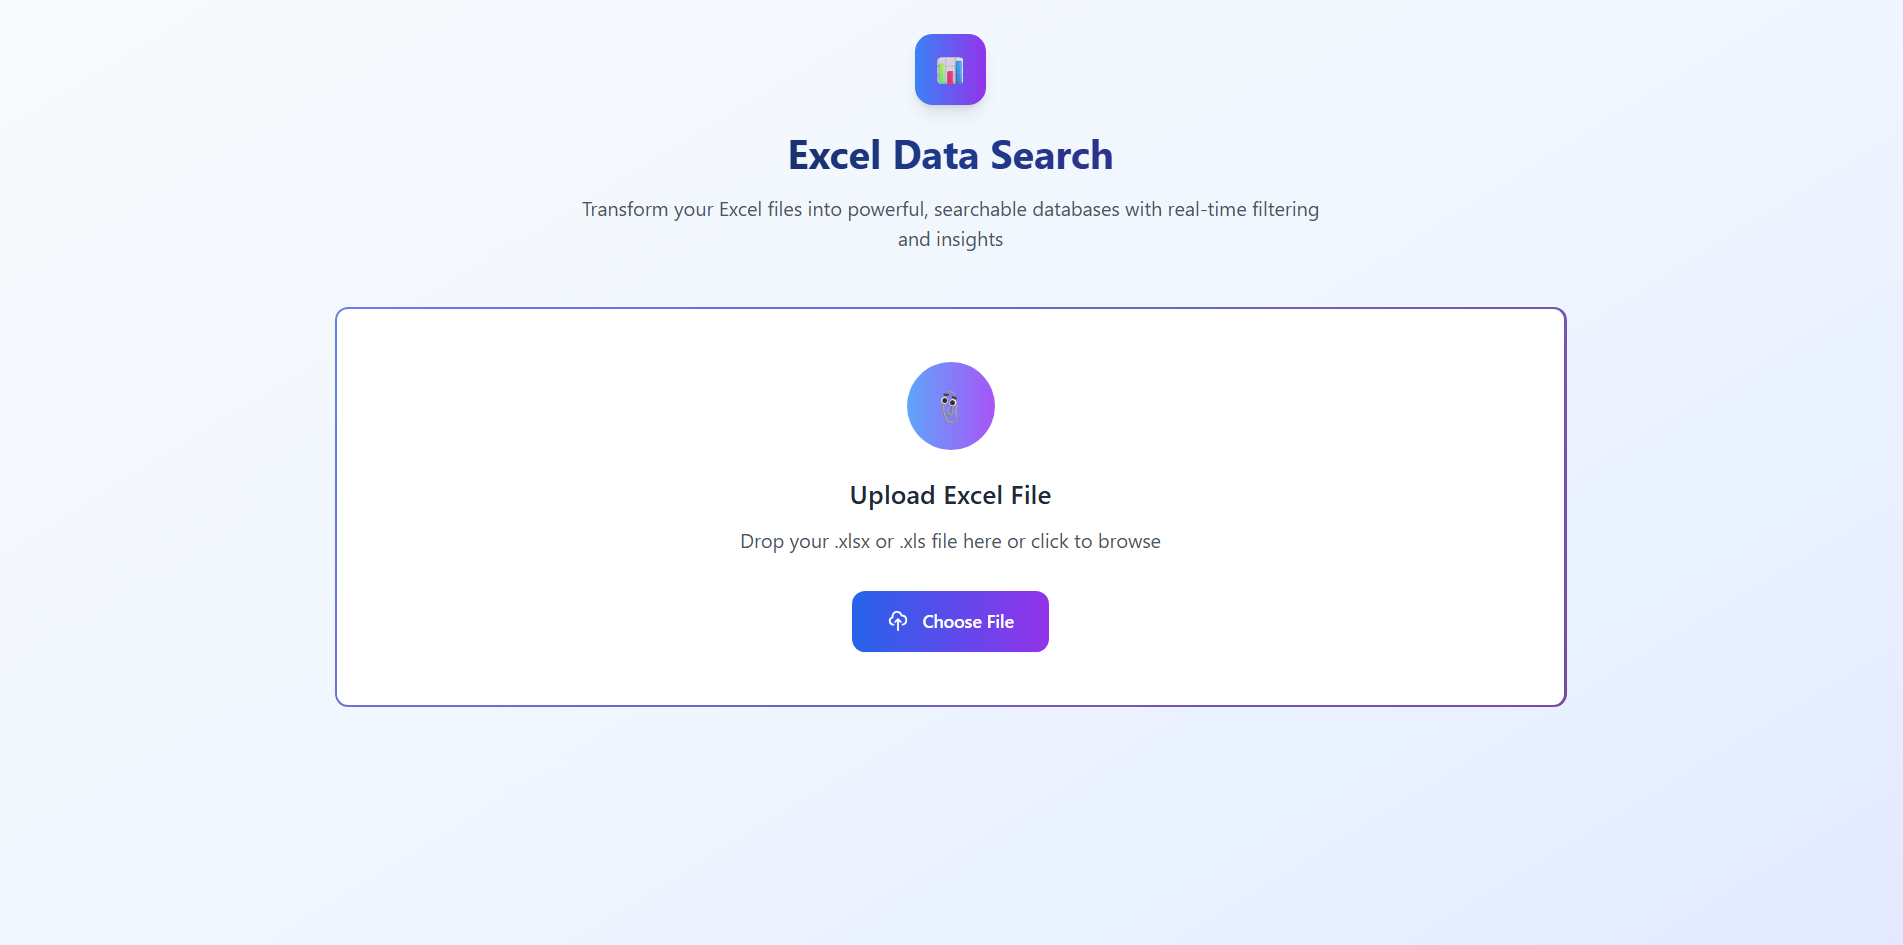
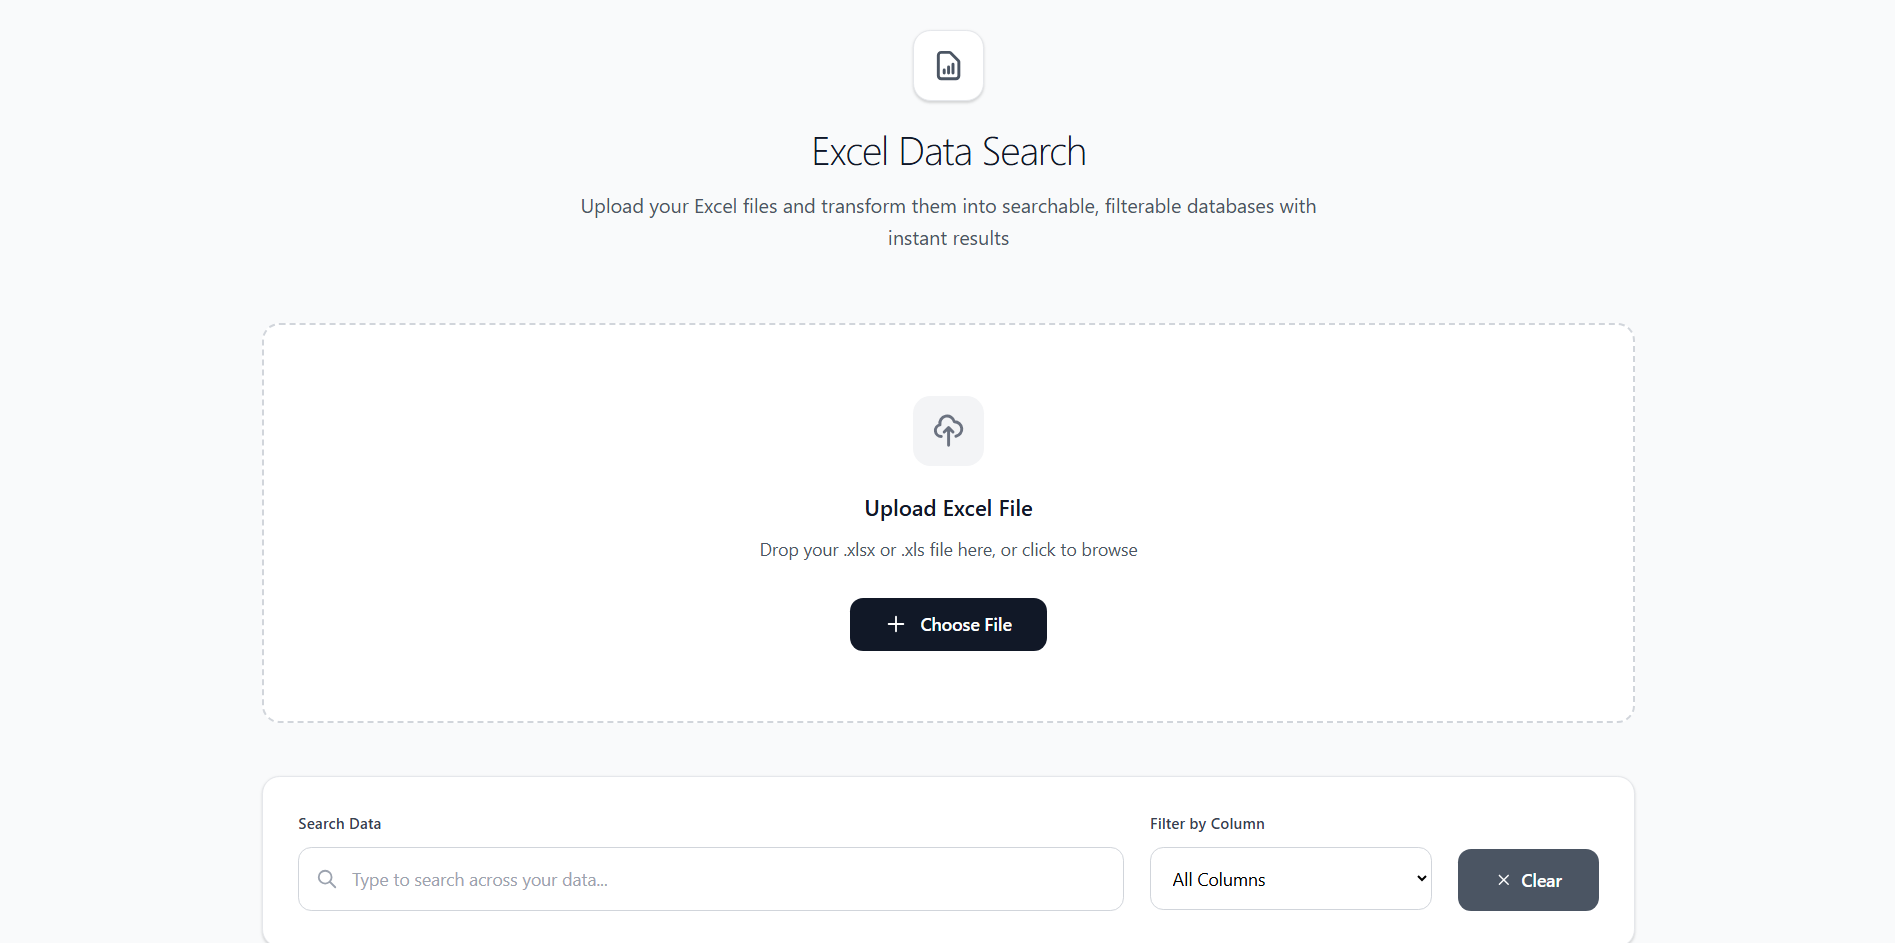
updated

diff --git a/projects-data.js b/projects-data.js
@@ -122,7 +122,8 @@ const projectsData = [
         "date": "2025-06-22",
         "purpose": "The purpose of this app is to make it easy for anyone to quickly find information inside an Excel file without needing to open or scroll through the whole spreadsheet. It helps save time and reduces frustration by providing a fast, straightforward way to search and access important data.\n\n",
         "screenshots": [
-            "port1.png"
+            "port1.png",
+            "port2.png"
         ],
         "technologies": [
             "HTML",
